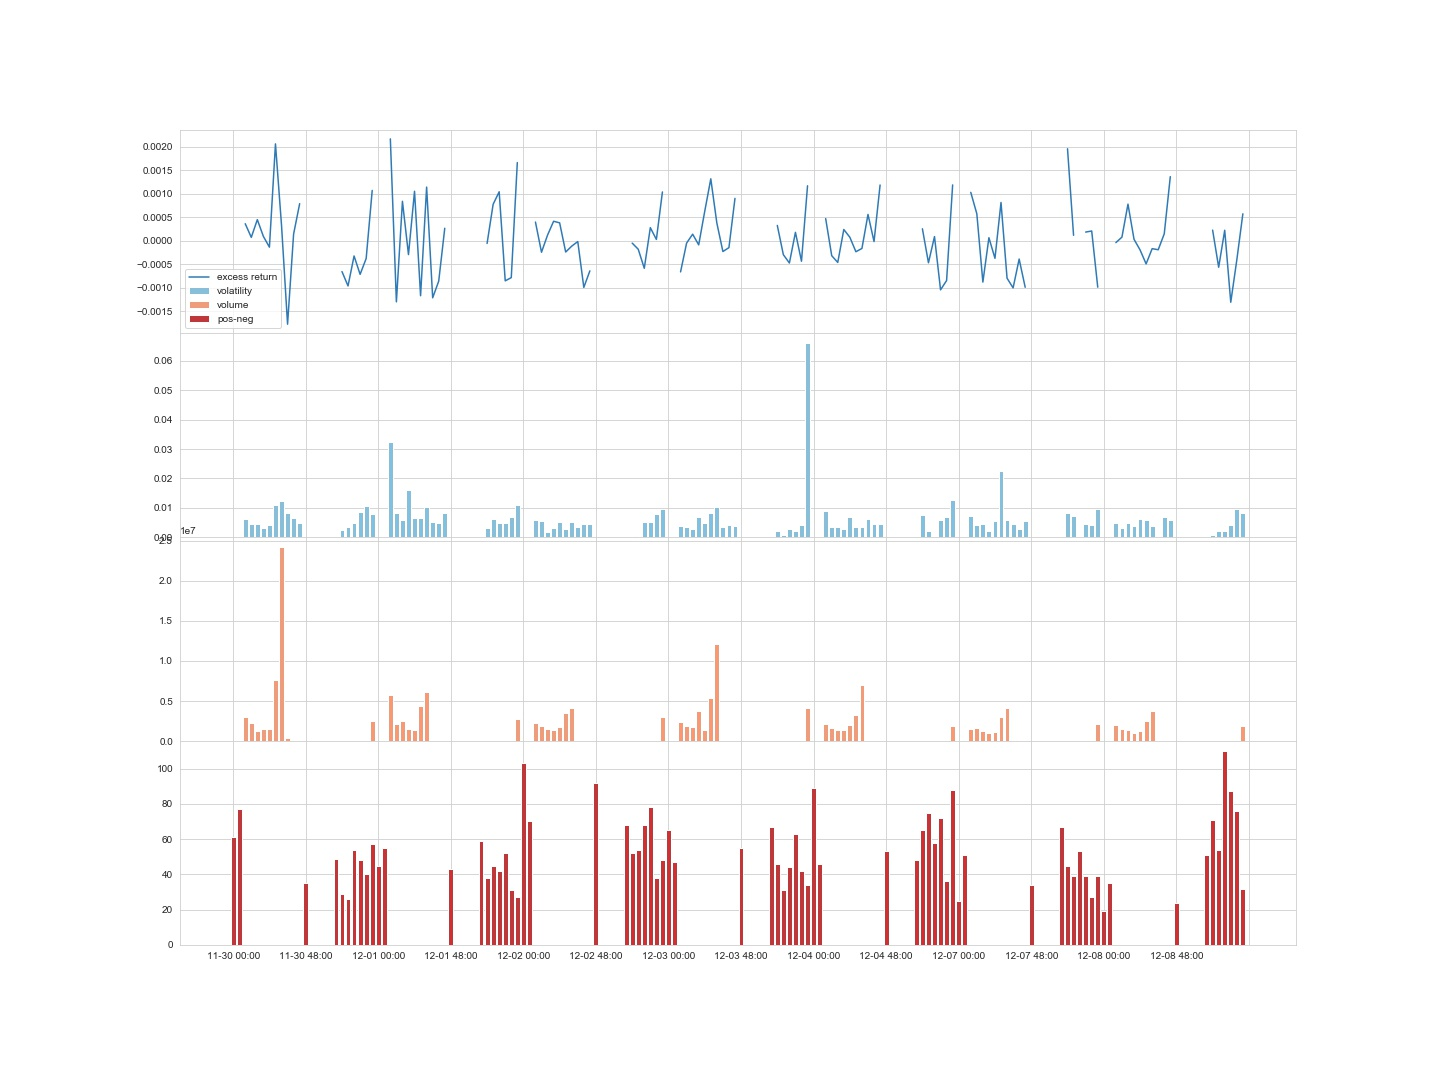
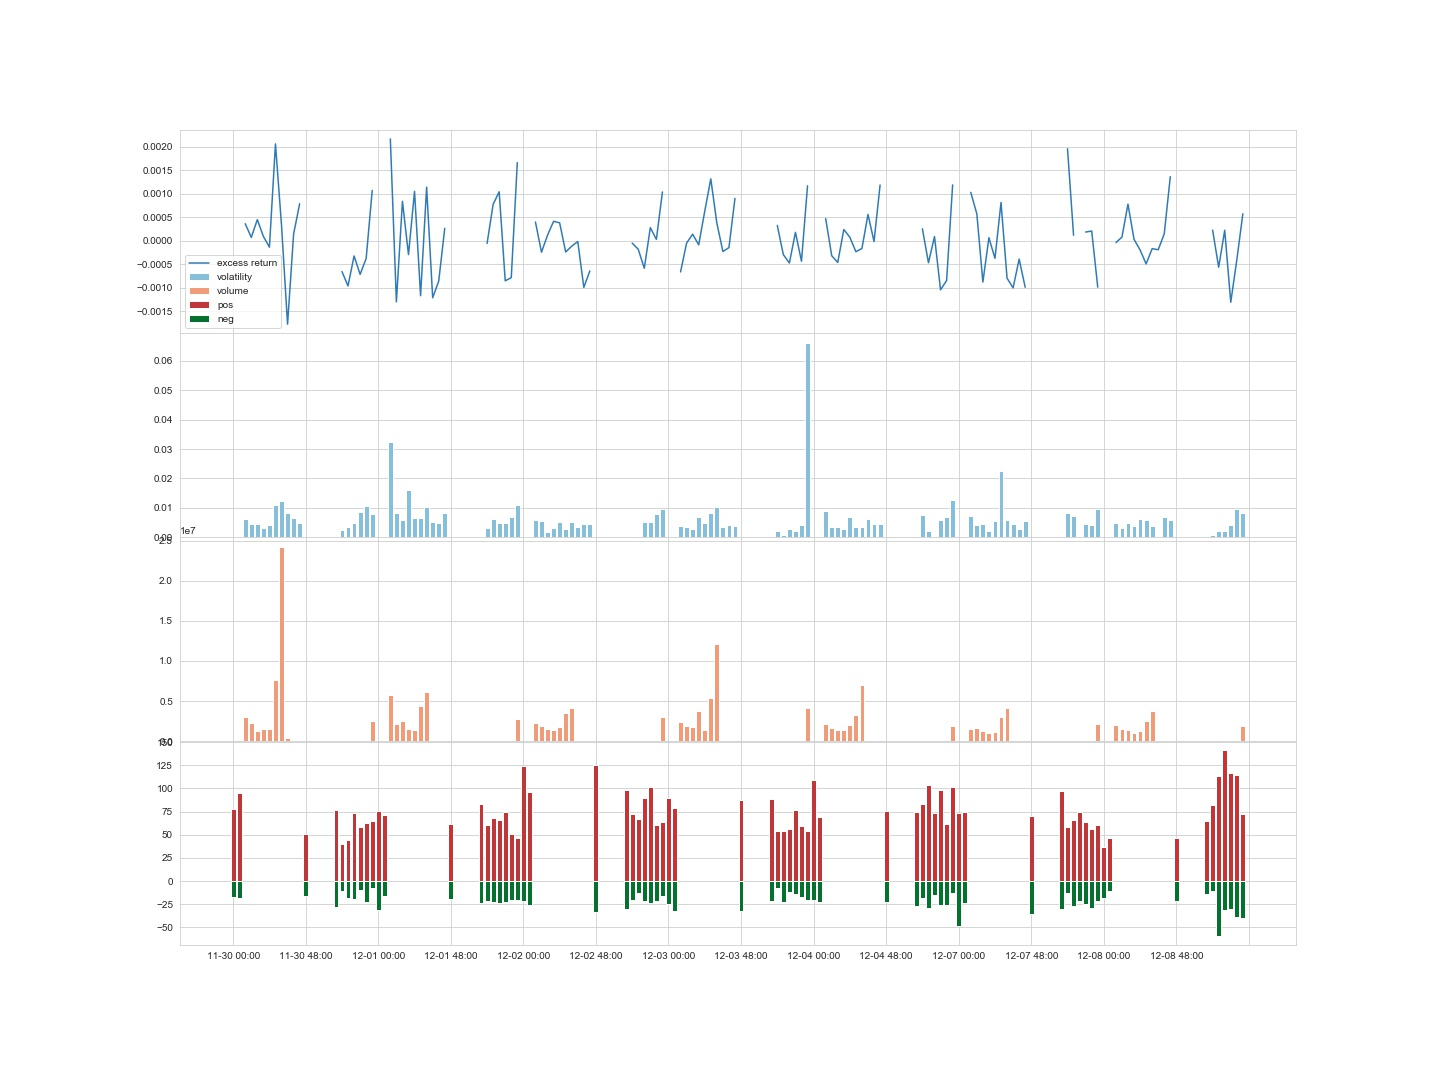
updates figures

diff --git a/Statistic Analysis.py b/Statistic Analysis.py
@@ -93,15 +93,26 @@ def draw_aggregate_graph(code, ticker_df, x, zoom):
     y0 = ticker_df['excess_return']
     y1 = ticker_df['volatility']
     y2 = ticker_df['volume']
+    '''
     if 'positive' in ticker_df.columns and 'negative' in ticker_df.columns:
         y3 = ticker_df['positive'] - ticker_df['negative']
     elif 'positive' in ticker_df.columns:
         y3 = ticker_df['positive']
     else:
-        y3 = ticker_df['negative']
+        y3 = -ticker_df['negative']
+    '''
+    if 'positive' in ticker_df.columns:
+        y3 = ticker_df['positive']
+    else:
+        y3 = np.array([0]*len(ticker_df))
+    if 'negative' in ticker_df.columns:
+        y4 = ticker_df['negative']
+    else:
+        y4 = np.array([0]*len(ticker_df))
 
     sns.set_style("whitegrid")
     colors = sns.color_palette("RdBu_r")
+    green = sns.color_palette('BuGn_r')[0]
     fig = plt.figure(figsize=(20, 15))
     gs = gridspec.GridSpec(4, 1)
 
@@ -118,9 +129,10 @@ def draw_aggregate_graph(code, ticker_df, x, zoom):
 
     ax3 = plt.subplot(gs[3], sharex=ax0)
     line3 = ax3.bar(x, y3, color=colors[5])
+    line4 = ax3.bar(x, -y4, color=green)
     plt.setp(ax2.get_xticklabels(), visible=False)
 
-    ax0.legend((line0, line1, line2, line3), ('excess return', 'volatility', 'volume', 'pos-neg'), loc='lower left')
+    ax0.legend((line0, line1, line2, line3, line4), ('excess return', 'volatility', 'volume', 'pos', 'neg'), loc='lower left')
 
     if zoom == 4:
         base = 3
